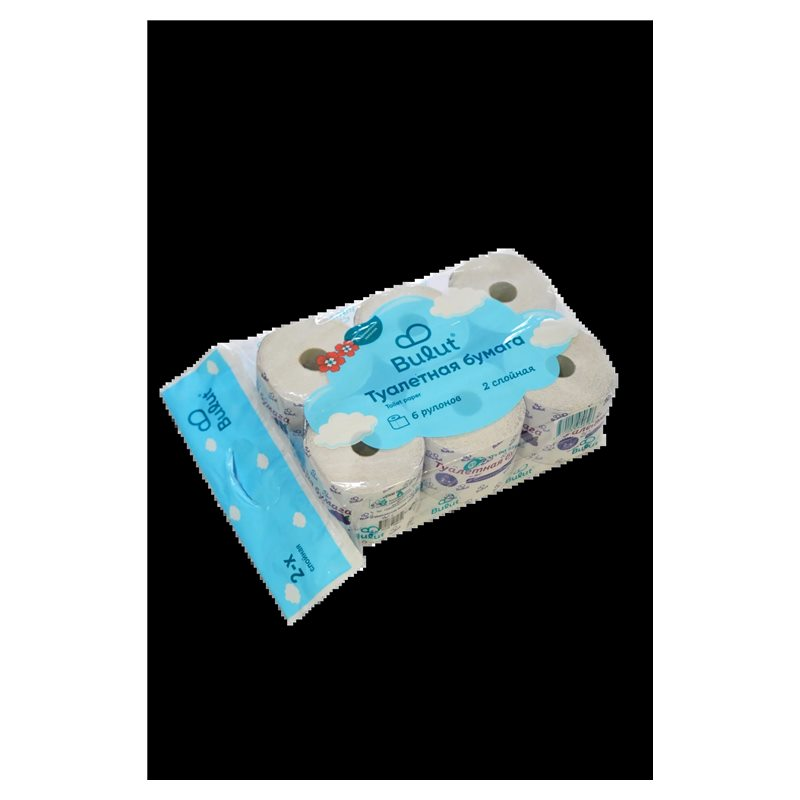
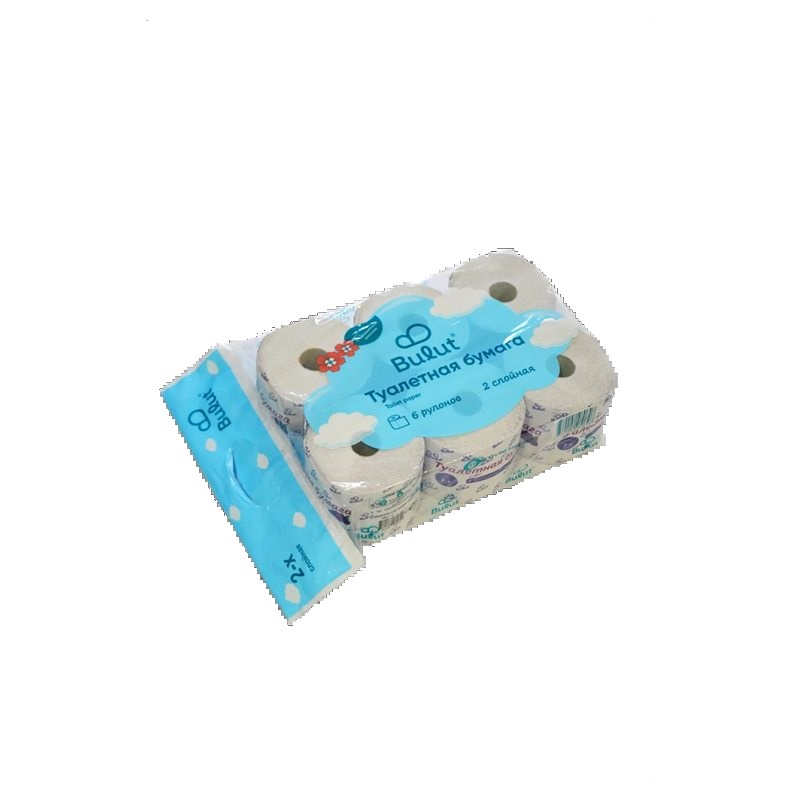
Botga savol yozish, brend logotiplari plashkada, hidli hojatxona qog'ozi tuzatildi
- Bot: savol yozish maydoni, kalit so'zlar bo'yicha tayyor javob (uz/ru/en), topilmasa operator raqamlari
- Bosh sahifa: Margaritto, Smaylo, PanDoozy logotiplari to'q plashkada, rasm ustida ko'rinadi
- BULUT: hojatxona-6 rasmining qora foni olib tashlandi; nomi "Hidli hojatxona qog'ozi", tarkibi makulatura

diff --git a/js/bot.js b/js/bot.js
@@ -77,8 +77,40 @@
     },
   };
 
+  // Yozilgan savolni kalit so'zlar bo'yicha tayyor javobga bog'lash (uchala til birga)
+  const KEYWORDS = [
+    ["raw", ["xomashyo", "asos qog", "rulon", "zichlik", "g/m", "gramm", "sellyuloza", "сырь", "основ", "рулон", "целлюлоз", "граммаж", "плотност", "base paper", "raw", "parent roll", "gsm", "jumbo"]],
+    ["private", ["private", "label", "o'z brend", "свой бренд", "собственн", "под брендом", "стм", "own brand"]],
+    ["export", ["eksport", "экспорт", "export", "chet el", "за рубеж", "afg'on", "афган", "qozoq", "казах", "kazakh", "qirg'iz", "кыргыз", "kyrgyz", "tojik", "таджик", "tajik", "turkman", "туркмен", "turkmen"]],
+    ["contact", ["manzil", "qayer", "адрес", "где вы", "где наход", "address", "where", "ish vaqt", "soat", "график", "час", "hours", "xarita", "карт", "map", "lokats", "локац", "location"]],
+    ["career", ["vakans", "ish joy", "ishga", "karyer", "rezyume", "ваканс", "работ", "резюме", "карьер", "job", "career", "vacanc", "cv", "hire"]],
+    ["wholesale", ["narx", "ulgurji", "opt", "цена", "цены", "стоимост", "сколько", "прайс", "price", "cost", "wholesale", "sotib", "купить", "buy", "qancha", "chegirma", "скидк", "discount", "dilerlik", "distrib", "дистриб", "дилер", "dealer"]],
+    ["valmond", ["valmond", "sariyog", "сливочн", "butter"]],
+    ["marg", ["margarin", "margaritto", "smaylo", "spred", "маргарин", "спред", "смайло", "qandolat", "кондит", "пекар", "nonvoy", "bakery", "pastry"]],
+    ["pandoozy", ["pandoozy", "пандуз", "panda"]],
+    ["bulut", ["bulut", "салфет", "salfet", "sochiq", "полотен", "towel", "napkin", "hojatxona", "туалет", "toilet", "nam salfet", "влажн", "wipe", "dispenser", "диспенсер", "gigiena", "гигиен", "hygiene"]],
+    ["operator", ["operator", "оператор", "telefon", "raqam", "номер", "телефон", "phone", "call", "qo'ng'iroq", "звон", "telegram", "email", "pochta", "почт", "mail", "bog'lan", "связ", "contact"]],
+    ["products", ["mahsulot", "продукц", "товар", "product", "assortiment", "ассортимент", "brend", "бренд", "brand", "katalog", "каталог", "catalog"]],
+  ];
+  const findNode = (q) => {
+    const s = " " + q.toLowerCase().replace(/[ʻʼ’‘`´]/g, "'") + " ";
+    let best = null, score = 0;
+    KEYWORDS.forEach(([id, words]) => {
+      const n = words.filter((w) => s.includes(w)).length;
+      if (n > score) { best = id; score = n; }
+    });
+    return best;
+  };
+  const ASK = {
+    uz: { ph: "Savolingizni yozing...", send: "Yuborish", none: "Bu savolga tayyor javobim yo'q. Operatorimiz yordam beradi:" },
+    ru: { ph: "Напишите ваш вопрос...", send: "Отправить", none: "На этот вопрос у меня нет готового ответа. Вам поможет оператор:" },
+    en: { ph: "Type your question...", send: "Send", none: "I don't have a ready answer to that. Our operator will help:" },
+  };
+
   const init = () => {
     const t = T[document.documentElement.lang] || T.uz;
+    const ask = ASK[document.documentElement.lang] || ASK.uz;
+    t.nodes.none = { text: ask.none, call: ["marg", "bulut", "paper", "office"], tg: true };
     const icon = '<svg viewBox="0 0 24 24" fill="none" stroke="currentColor" stroke-width="2" stroke-linecap="round" stroke-linejoin="round" aria-hidden="true"><path d="M21 15a2 2 0 0 1-2 2H7l-4 4V5a2 2 0 0 1 2-2h14a2 2 0 0 1 2 2z"/></svg>';
     const cross = '<svg viewBox="0 0 24 24" fill="none" stroke="currentColor" stroke-width="2" stroke-linecap="round" aria-hidden="true"><path d="M18 6 6 18M6 6l12 12"/></svg>';
 
@@ -89,7 +121,9 @@
       `<section class="bot__panel" id="bot-panel" role="dialog" aria-label="${t.title}" hidden>` +
       `<header class="bot__head"><img src="${document.querySelector(".logo__mark") ? document.querySelector(".logo__mark").getAttribute("src") : ""}" alt="" width="739" height="947"><div><strong>${t.title}</strong><span>${t.status}</span></div>` +
       `<button type="button" class="bot__close" aria-label="${t.close}">${cross}</button></header>` +
-      `<div class="bot__log" aria-live="polite"></div><div class="bot__opts"></div></section>`;
+      `<div class="bot__log" aria-live="polite"></div><div class="bot__opts"></div>` +
+      `<form class="bot__ask"><input type="text" maxlength="200" placeholder="${ask.ph}" aria-label="${ask.ph}">` +
+      `<button type="submit" aria-label="${ask.send}"><svg viewBox="0 0 24 24" fill="none" stroke="currentColor" stroke-width="2" stroke-linecap="round" stroke-linejoin="round" aria-hidden="true"><path d="M22 2 11 13M22 2l-7 20-4-9-9-4z"/></svg></button></form></section>`;
     document.body.appendChild(wrap);
 
     const fab = wrap.querySelector(".bot__fab");
@@ -133,6 +167,21 @@
         opts.appendChild(b);
       });
     };
+
+    const askForm = wrap.querySelector(".bot__ask");
+    const askInput = askForm.querySelector("input");
+    askForm.addEventListener("submit", (e) => {
+      e.preventDefault();
+      const q = askInput.value.trim();
+      if (!q) return;
+      const m = document.createElement("div");
+      m.className = "bot__msg bot__msg--user";
+      m.textContent = q;
+      log.appendChild(m);
+      askInput.value = "";
+      const hello = /salom|assalom|привет|здравств|добрый|hello|\bhi\b|good (morning|day)/i.test(q);
+      show(findNode(q) || (hello ? "root" : "none"));
+    });
 
     let started = false;
     const toggle = (open) => {

diff --git a/ru/index.html b/ru/index.html
@@ -124,21 +124,21 @@
           </a>
           <a href="margarin.html#margaritto" class="brand-card brand-card--top reveal reveal-delay-1">
             <img class="brand-card__bg" src="../images/marg/margaritto-pastry-80.jpg" alt="" loading="lazy">
-            <img class="brand-card__logo" src="../images/brand/margaritto-logo.png" alt="Margaritto" width="1384" height="805">
+            <span class="brand-card__badge"><img class="brand-card__logo" src="../images/brand/margaritto-logo.png" alt="Margaritto" width="1384" height="805"></span>
             <div class="brand__tags"><span class="tag">Слоёное тесто</span><span class="tag">Кремы</span><span class="tag">Универсальный</span><span class="tag">Жир 99%</span></div>
             <p>Маргарины для хозяек и профессиональных кондитеров.</p>
             <span class="brand-card__link">Продукция Margaritto</span>
           </a>
           <a href="margarin.html#smaylo" class="brand-card brand-card--top reveal reveal-delay-2">
             <img class="brand-card__bg" src="../images/marg/smaylo-stol-72.jpg" alt="" loading="lazy">
-            <img class="brand-card__logo emblem--white" src="../images/brand/smaylo-logo.png" alt="Smaylo" width="1493" height="508">
+            <span class="brand-card__badge"><img class="brand-card__logo emblem--white" src="../images/brand/smaylo-logo.png" alt="Smaylo" width="1493" height="508"></span>
             <div class="brand__tags"><span class="tag">Спред 82,5%</span><span class="tag">Спред 72%</span><span class="tag">Завтрак</span></div>
             <p>Вкусные спреды для завтрака и повседневного стола.</p>
             <span class="brand-card__link">Продукция Smaylo</span>
           </a>
           <a href="pandoozy.html" class="brand-card brand-card--top brand-card--pack reveal">
             <img class="brand-card__bg" src="../images/products/pandoozy-salfetka-70.jpg" alt="" loading="lazy">
-            <img class="brand-card__logo emblem--white" src="../images/brand/pandoozy-logo.png" alt="PanDoozy" width="1352" height="399">
+            <span class="brand-card__badge"><img class="brand-card__logo emblem--white" src="../images/brand/pandoozy-logo.png" alt="PanDoozy" width="1352" height="399"></span>
             <div class="brand__tags"><span class="tag">Салфетки</span><span class="tag">Туалетная бумага</span><span class="tag">Доступная цена</span></div>
             <p>Салфетки и туалетная бумага для дома, офиса и торговых сетей.</p>
             <span class="brand-card__link">Продукция PanDoozy</span>

diff --git a/en/index.html b/en/index.html
@@ -124,21 +124,21 @@
           </a>
           <a href="margarin.html#margaritto" class="brand-card brand-card--top reveal reveal-delay-1">
             <img class="brand-card__bg" src="../images/marg/margaritto-pastry-80.jpg" alt="" loading="lazy">
-            <img class="brand-card__logo" src="../images/brand/margaritto-logo.png" alt="Margaritto" width="1384" height="805">
+            <span class="brand-card__badge"><img class="brand-card__logo" src="../images/brand/margaritto-logo.png" alt="Margaritto" width="1384" height="805"></span>
             <div class="brand__tags"><span class="tag">Puff pastry</span><span class="tag">Creams</span><span class="tag">Universal</span><span class="tag">99% fat</span></div>
             <p>Margarines for home bakers and professional confectioners.</p>
             <span class="brand-card__link">Margaritto products</span>
           </a>
           <a href="margarin.html#smaylo" class="brand-card brand-card--top reveal reveal-delay-2">
             <img class="brand-card__bg" src="../images/marg/smaylo-stol-72.jpg" alt="" loading="lazy">
-            <img class="brand-card__logo emblem--white" src="../images/brand/smaylo-logo.png" alt="Smaylo" width="1493" height="508">
+            <span class="brand-card__badge"><img class="brand-card__logo emblem--white" src="../images/brand/smaylo-logo.png" alt="Smaylo" width="1493" height="508"></span>
             <div class="brand__tags"><span class="tag">Spread 82.5%</span><span class="tag">Spread 72%</span><span class="tag">Breakfast</span></div>
             <p>Delicious spreads for breakfast and the everyday table.</p>
             <span class="brand-card__link">Smaylo products</span>
           </a>
           <a href="pandoozy.html" class="brand-card brand-card--top brand-card--pack reveal">
             <img class="brand-card__bg" src="../images/products/pandoozy-salfetka-70.jpg" alt="" loading="lazy">
-            <img class="brand-card__logo emblem--white" src="../images/brand/pandoozy-logo.png" alt="PanDoozy" width="1352" height="399">
+            <span class="brand-card__badge"><img class="brand-card__logo emblem--white" src="../images/brand/pandoozy-logo.png" alt="PanDoozy" width="1352" height="399"></span>
             <div class="brand__tags"><span class="tag">Napkins</span><span class="tag">Toilet paper</span><span class="tag">Affordable</span></div>
             <p>Napkins and toilet paper for homes, offices and retail chains.</p>
             <span class="brand-card__link">PanDoozy products</span>

diff --git a/index.html b/index.html
@@ -124,21 +124,21 @@
           </a>
           <a href="margarin.html#margaritto" class="brand-card brand-card--top reveal reveal-delay-1">
             <img class="brand-card__bg" src="images/marg/margaritto-pastry-80.jpg" alt="" loading="lazy">
-            <img class="brand-card__logo" src="images/brand/margaritto-logo.png" alt="Margaritto" width="1384" height="805">
+            <span class="brand-card__badge"><img class="brand-card__logo" src="images/brand/margaritto-logo.png" alt="Margaritto" width="1384" height="805"></span>
             <div class="brand__tags"><span class="tag">Qatlamli xamir</span><span class="tag">Kremlar</span><span class="tag">Universal</span><span class="tag">99% yog'</span></div>
             <p>Uy bekalari va professional qandolatchilar uchun margarinlar.</p>
             <span class="brand-card__link">Margaritto mahsulotlari</span>
           </a>
           <a href="margarin.html#smaylo" class="brand-card brand-card--top reveal reveal-delay-2">
             <img class="brand-card__bg" src="images/marg/smaylo-stol-72.jpg" alt="" loading="lazy">
-            <img class="brand-card__logo emblem--white" src="images/brand/smaylo-logo.png" alt="Smaylo" width="1493" height="508">
+            <span class="brand-card__badge"><img class="brand-card__logo emblem--white" src="images/brand/smaylo-logo.png" alt="Smaylo" width="1493" height="508"></span>
             <div class="brand__tags"><span class="tag">Spred 82,5%</span><span class="tag">Spred 72%</span><span class="tag">Nonushta</span></div>
             <p>Nonushta va kundalik dasturxon uchun mazali spredlar.</p>
             <span class="brand-card__link">Smaylo mahsulotlari</span>
           </a>
           <a href="pandoozy.html" class="brand-card brand-card--top brand-card--pack reveal">
             <img class="brand-card__bg" src="images/products/pandoozy-salfetka-70.jpg" alt="" loading="lazy">
-            <img class="brand-card__logo emblem--white" src="images/brand/pandoozy-logo.png" alt="PanDoozy" width="1352" height="399">
+            <span class="brand-card__badge"><img class="brand-card__logo emblem--white" src="images/brand/pandoozy-logo.png" alt="PanDoozy" width="1352" height="399"></span>
             <div class="brand__tags"><span class="tag">Salfetkalar</span><span class="tag">Hojatxona qog'ozi</span><span class="tag">Hamyonbop</span></div>
             <p>Uy, ofis va savdo tarmoqlari uchun salfetka va hojatxona qog'ozi.</p>
             <span class="brand-card__link">PanDoozy mahsulotlari</span>

diff --git a/css/style.css b/css/style.css
@@ -412,6 +412,9 @@ p { margin: 0 0 1em; }
 .brand-card.brand-card--top { background: #0b1a2e; }
 .brand-card.brand-card--top > img.brand-card__bg { bottom: auto; height: 62%; object-position: 50% 100%; }
 .brand-card.brand-card--top::before { background: linear-gradient(180deg, transparent 0%, transparent 42%, rgba(11,26,46,.85) 56%, #0b1a2e 63%); }
+/* Rasm ustidagi logotip ko'rinsin: to'q shaffof plashka */
+.brand-card__badge { align-self: flex-start; display: inline-flex; margin-bottom: 18px; padding: 10px 16px; border-radius: 16px; background: rgba(11, 26, 46, .78); border: 1px solid rgba(226, 184, 114, .25); backdrop-filter: blur(8px); -webkit-backdrop-filter: blur(8px); box-shadow: 0 10px 30px rgba(0, 0, 0, .3); }
+.brand-card__badge .brand-card__logo { height: 54px; margin-bottom: 0; }
 .brand-card.brand-card--pack > img.brand-card__bg { object-fit: contain; padding: 22px 22px 0; background: #f2f7fd; }
 .brand-card.brand-card--pack { background: linear-gradient(180deg, #f2f7fd 0%, #f2f7fd 50%, #0b1a2e 63%); }
 .brand-card--valmond { background: radial-gradient(circle at 75% 25%, rgba(213,163,91,.38), transparent 60%), linear-gradient(160deg, #15305a, #07111f); }
@@ -979,6 +982,11 @@ body.no-scroll { overflow: hidden; }
 .bot__chip { padding: 8px 13px; border-radius: 999px; border: 1px solid var(--line-gold); background: transparent; color: var(--heading); font: 600 .84rem var(--sans); cursor: pointer; transition: background .2s, border-color .2s; }
 .bot__chip:hover { background: var(--gold-soft); border-color: var(--gold); }
 .bot__chip--home { color: var(--muted); border-style: dashed; }
+.bot__ask { display: flex; gap: 8px; padding: 0 16px 16px; background: var(--surface); }
+.bot__ask input { flex: 1; min-width: 0; padding: 10px 14px; border-radius: 999px; border: 1px solid var(--line-gold); background: var(--bg); color: var(--text); font: 500 .9rem var(--sans); }
+.bot__ask input:focus { outline: none; border-color: var(--gold); box-shadow: 0 0 0 3px var(--gold-soft); }
+.bot__ask button { flex-shrink: 0; width: 42px; height: 42px; border-radius: 50%; border: 0; cursor: pointer; display: grid; place-items: center; background: linear-gradient(135deg, #e2b872, #c9964f 55%, #a8742c); color: #1a1206; }
+.bot__ask button svg { width: 18px; height: 18px; }
 @media (max-width: 600px) {
   .bot { right: 16px; bottom: 16px; }
   .bot__fab { width: 54px; height: 54px; }

diff --git a/ru/bulut.html b/ru/bulut.html
@@ -437,12 +437,12 @@
               </div>
             </article>
             <article class="product">
-              <div class="product__img"><img class="blend" src="../images/products/hojatxona-6.jpg" alt="Туалетная бумага" loading="lazy"></div>
+              <div class="product__img"><img class="blend" src="../images/products/hojatxona-6.jpg" alt="Ароматизированная туалетная бумага" loading="lazy"></div>
               <div class="product__body">
-                <h4>Туалетная бумага</h4>
+                <h4>Ароматизированная туалетная бумага</h4>
                 <ul class="product__list">
                   <li><span>Кол-во</span><span>6 рулонов</span></li>
-                  <li><span>Состав</span><span>100% целлюлоза</span></li>
+                  <li><span>Состав</span><span>Макулатура</span></li>
                   <li><span>Слой</span><span>2</span></li>
                 </ul>
               </div>

diff --git a/bulut.html b/bulut.html
@@ -437,12 +437,12 @@
               </div>
             </article>
             <article class="product">
-              <div class="product__img"><img class="blend" src="images/products/hojatxona-6.jpg" alt="Hojatxona qog'ozi" loading="lazy"></div>
+              <div class="product__img"><img class="blend" src="images/products/hojatxona-6.jpg" alt="Hidli hojatxona qog'ozi" loading="lazy"></div>
               <div class="product__body">
-                <h4>Hojatxona qog'ozi</h4>
+                <h4>Hidli hojatxona qog'ozi</h4>
                 <ul class="product__list">
                   <li><span>Miqdori</span><span>6 rulon</span></li>
-                  <li><span>Tarkibi</span><span>100% sellyuloza</span></li>
+                  <li><span>Tarkibi</span><span>Makulatura</span></li>
                   <li><span>Qatlami</span><span>2</span></li>
                 </ul>
               </div>

diff --git a/en/bulut.html b/en/bulut.html
@@ -437,12 +437,12 @@
               </div>
             </article>
             <article class="product">
-              <div class="product__img"><img class="blend" src="../images/products/hojatxona-6.jpg" alt="Toilet paper" loading="lazy"></div>
+              <div class="product__img"><img class="blend" src="../images/products/hojatxona-6.jpg" alt="Scented toilet paper" loading="lazy"></div>
               <div class="product__body">
-                <h4>Toilet paper</h4>
+                <h4>Scented toilet paper</h4>
                 <ul class="product__list">
                   <li><span>Quantity</span><span>6 rolls</span></li>
-                  <li><span>Composition</span><span>100% cellulose</span></li>
+                  <li><span>Composition</span><span>Recycled paper</span></li>
                   <li><span>Plies</span><span>2</span></li>
                 </ul>
               </div>
